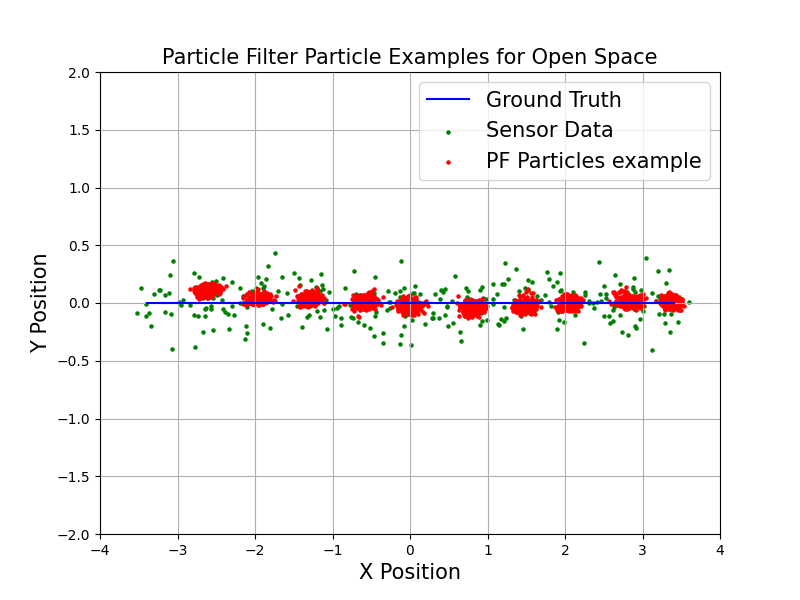
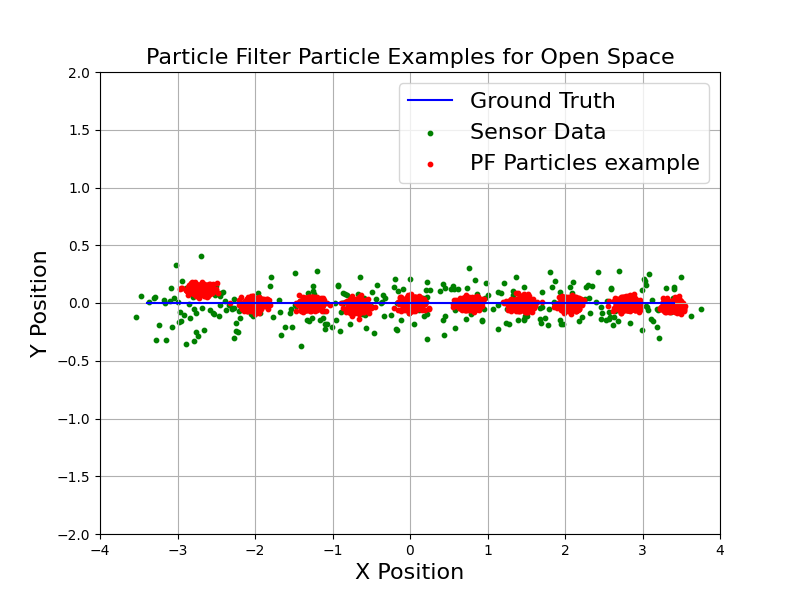
update figures

diff --git a/pf.py b/pf.py
@@ -19,7 +19,7 @@ NUM_PARTICLES = 300 # number of particles for particle filter
 X_MAX = 8 # max x length for map
 Y_MAX = 4 # max y length for map
 ACTION_ONLY = False
-CHECK_COLLISION = False
+CHECK_COLLISION = True
 MAP = "minor_obstacle.json" 
 PATH = "minor_obstacle.txt" 
 # MAP = "open_space.json"
@@ -242,8 +242,8 @@ def main_pf(path_pf, map_pf):
     plt.xlim(-4,4)
     plt.ylim(-2,2)
     plt.plot(path.T[0], path.T[1], label='Ground Truth', c='b')
-    plt.scatter(np.array(z_cache).T[0], np.array(z_cache).T[1], s=5, label='Sensor Data', c='g')
-    plt.scatter(np.array(pf.estimated_path).T[0], np.array(pf.estimated_path).T[1], s=5 ,label='PF Estimation', c='r')
+    plt.scatter(np.array(z_cache).T[0], np.array(z_cache).T[1], s=10, label='Sensor Data', c='g')
+    plt.scatter(np.array(pf.estimated_path).T[0], np.array(pf.estimated_path).T[1], s=10 ,label='PF Estimation', c='r')
     
     # Add arrows to show orientation at selected points
     arrow_skip = T_MAX//10 # Number of points to skip between arrows
@@ -258,23 +258,23 @@ def main_pf(path_pf, map_pf):
                   0.3 * np.cos(pf.estimated_path[i][2]), 0.3 * np.sin(pf.estimated_path[i][2]), 
                   head_width=0.07, head_length=0.15, fc='red', ec='black')
 
-    plt.legend(fontsize = 15)
-    plt.xlabel('X Position', fontsize = 15)
-    plt.ylabel('Y Position', fontsize = 15)
+    plt.legend(fontsize = 16)
+    plt.xlabel('X Position', fontsize = 16)
+    plt.ylabel('Y Position', fontsize = 16)
     plt.grid(True)
-    plt.title(f'Particle Filter Path Tracking for {path_pf.replace("_", " ").replace(".txt", "").title()}', fontsize = 15)
+    plt.title(f'Particle Filter Path Tracking for {path_pf.replace("_", " ").replace(".txt", "").title()}', fontsize = 16)
     
     plt.figure(2, figsize=(8, 6))
     plt.xlim(-4,4)
     plt.ylim(-2,2)
     plt.plot(path.T[0], path.T[1], label='Ground Truth', c='b')
-    plt.scatter(np.array(z_cache).T[0], np.array(z_cache).T[1], s=5, label='Sensor Data', c='g')
-    plt.scatter(np.array(particles_cache).T[0], np.array(particles_cache).T[1], s=5 ,label='PF Particles example', c='r')
-    plt.legend(fontsize = 15)
-    plt.xlabel('X Position', fontsize = 15)
-    plt.ylabel('Y Position', fontsize = 15)
+    plt.scatter(np.array(z_cache).T[0], np.array(z_cache).T[1], s=10, label='Sensor Data', c='g')
+    plt.scatter(np.array(particles_cache).T[0], np.array(particles_cache).T[1], s=10 ,label='PF Particles example', c='r')
+    plt.legend(fontsize = 16)
+    plt.xlabel('X Position', fontsize = 16)
+    plt.ylabel('Y Position', fontsize = 16)
     plt.grid(True)
-    plt.title(f'Particle Filter Particle Examples for {path_pf.replace("_", " ").replace(".txt", "").title()}', fontsize = 15)
+    plt.title(f'Particle Filter Particle Examples for {path_pf.replace("_", " ").replace(".txt", "").title()}', fontsize = 16)
 
     # plt.figure(3, figsize=(8, 6))
     # plt.xlim(-4,4)

diff --git a/kf.py b/kf.py
@@ -98,9 +98,9 @@ def main_kf(path_kf, map_kf):
 
     # Plotting the actual, measured, and KF paths
     plt.plot(x_true, y_true, 'b-', label="Ground Truth", linewidth=2) 
-    plt.scatter(x_measured, y_measured, color='g', s=5, label="Sensor Data")  
+    plt.scatter(x_measured, y_measured, color='g', s=10, label="Sensor Data")  
     # plt.plot(kf_states[:, 0], kf_states[:, 1], 'r--', label="KF estimation", linewidth=2)  
-    plt.scatter(kf_states[:, 0], kf_states[:, 1], color='r', s=5, label="KF estimation") 
+    plt.scatter(kf_states[:, 0], kf_states[:, 1], color='r', s=10, label="KF estimation") 
 
     # Add arrows to show orientation at selected points
     arrow_skip = 30 # Number of points to skip between arrows
@@ -122,10 +122,10 @@ def main_kf(path_kf, map_kf):
     # plt.scatter(kf_states[-1, 0], kf_states[-1, 1], color='r', marker='X', s=100, label="End (EKF)", edgecolor='black')
 
     # Adding labels, title, grid, and legend
-    plt.xlabel("X Position", fontsize = 15) 
-    plt.ylabel("Y Position", fontsize = 15) 
-    plt.title(f'Kalman Filter Path Tracking for {path_kf.replace("_", " ").replace(".txt", "").title()}', fontsize = 15) 
-    plt.legend(fontsize = 15) 
+    plt.xlabel("X Position", fontsize = 16) 
+    plt.ylabel("Y Position", fontsize = 16) 
+    plt.title(f'Kalman Filter Path Tracking for {path_kf.replace("_", " ").replace(".txt", "").title()}', fontsize = 16) 
+    plt.legend(fontsize = 16) 
     plt.grid(True) 
     plt.show(block=False) 
     disconnect()
